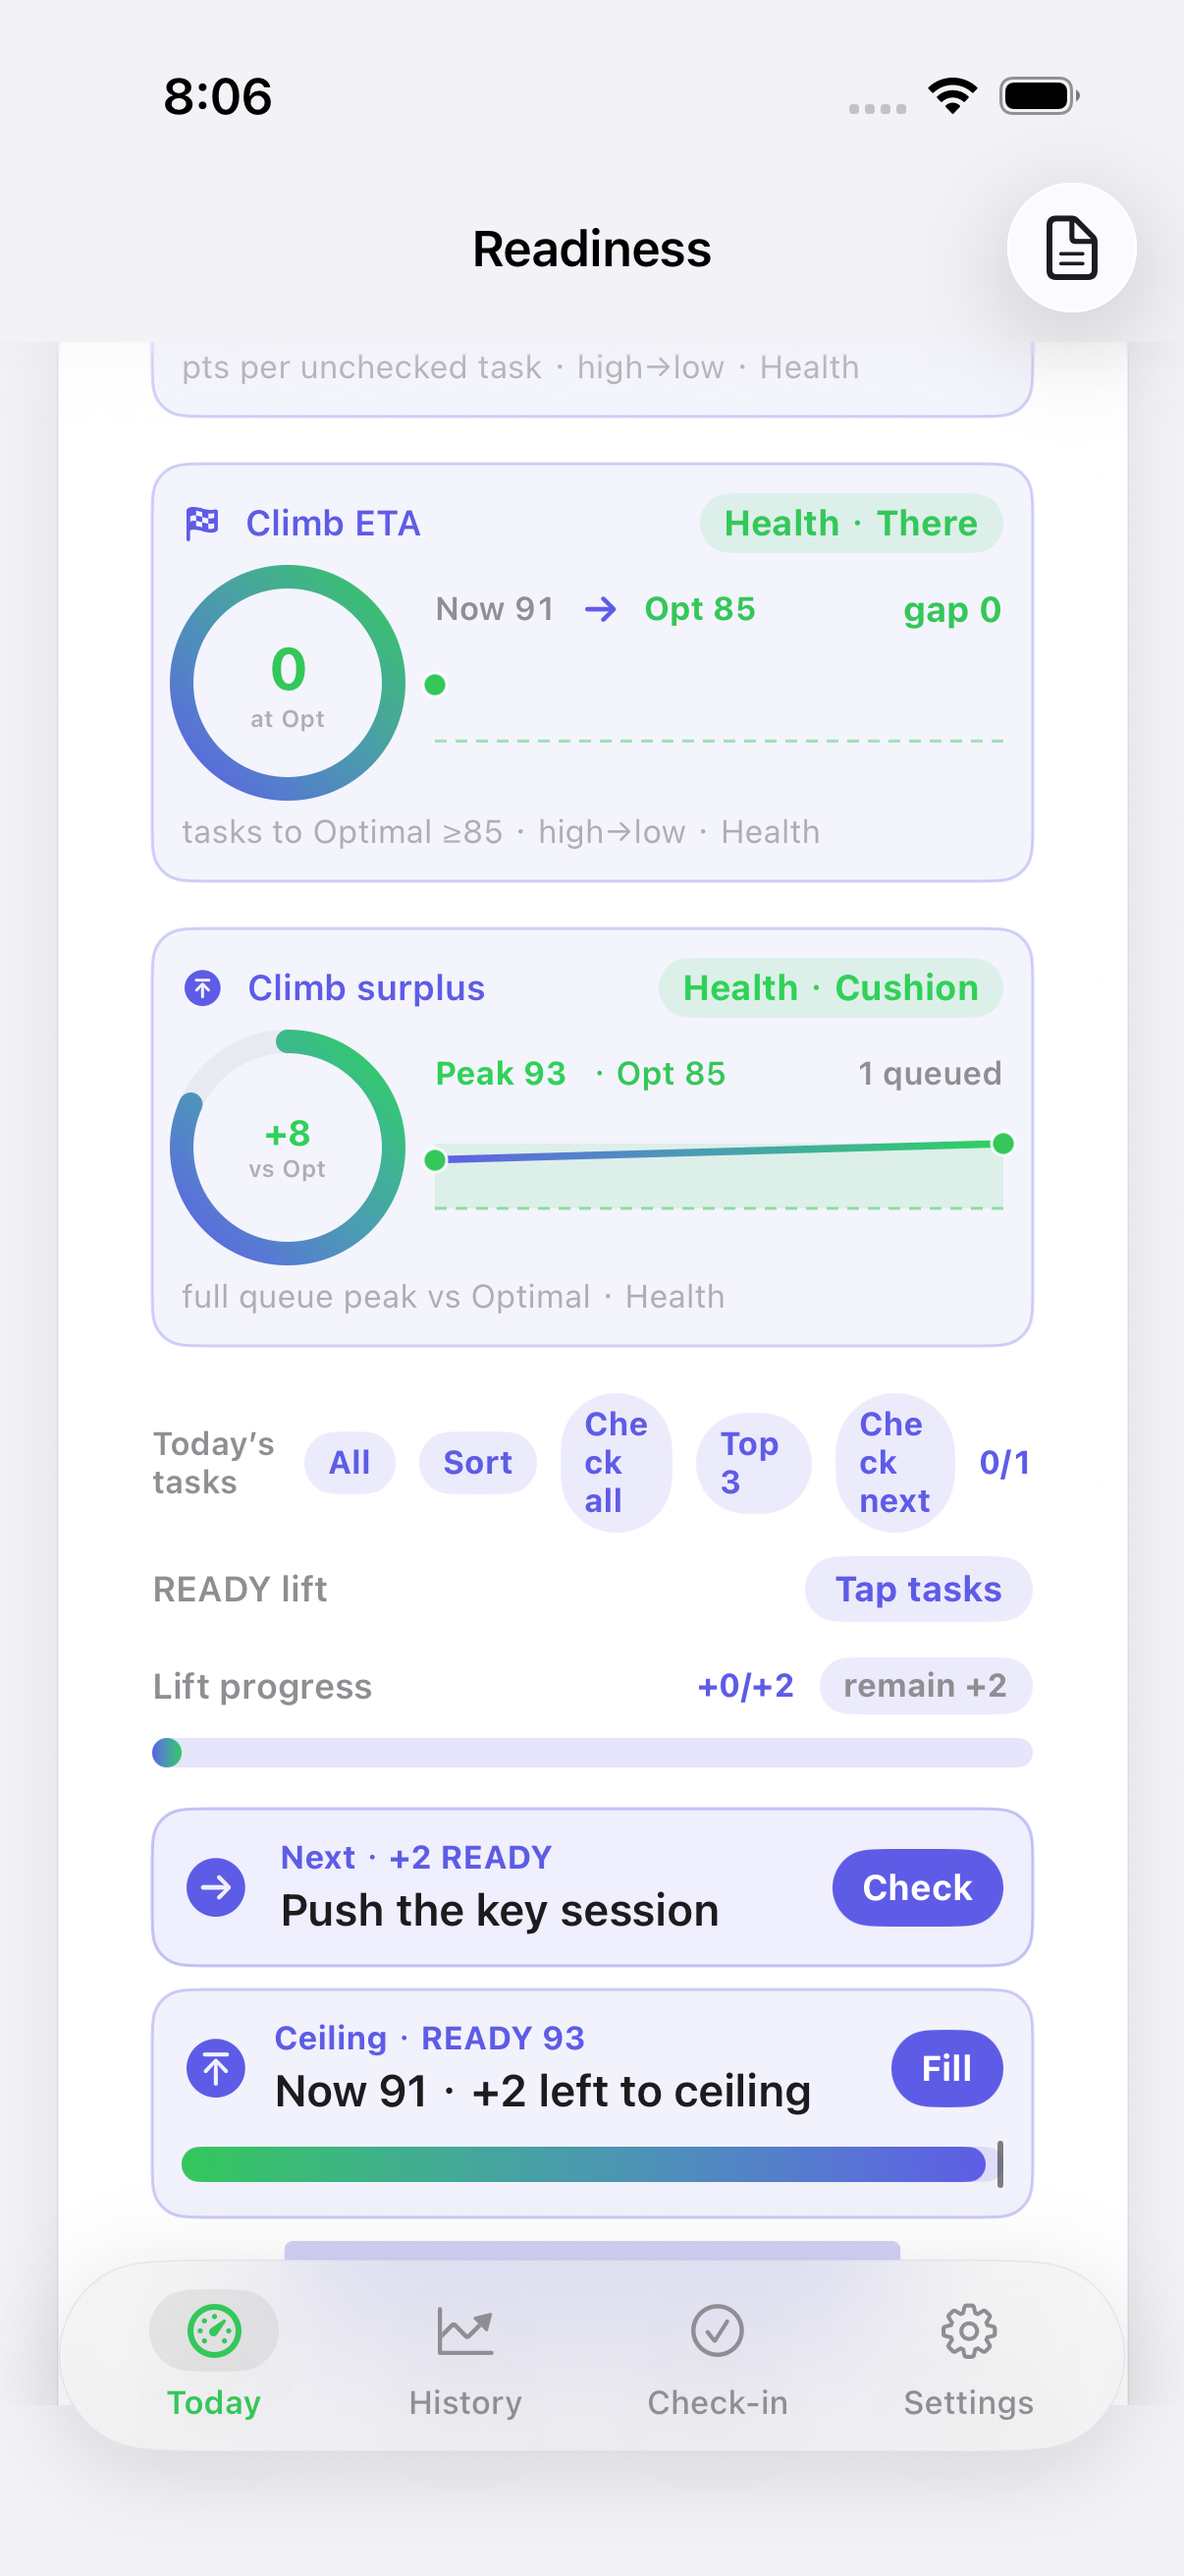
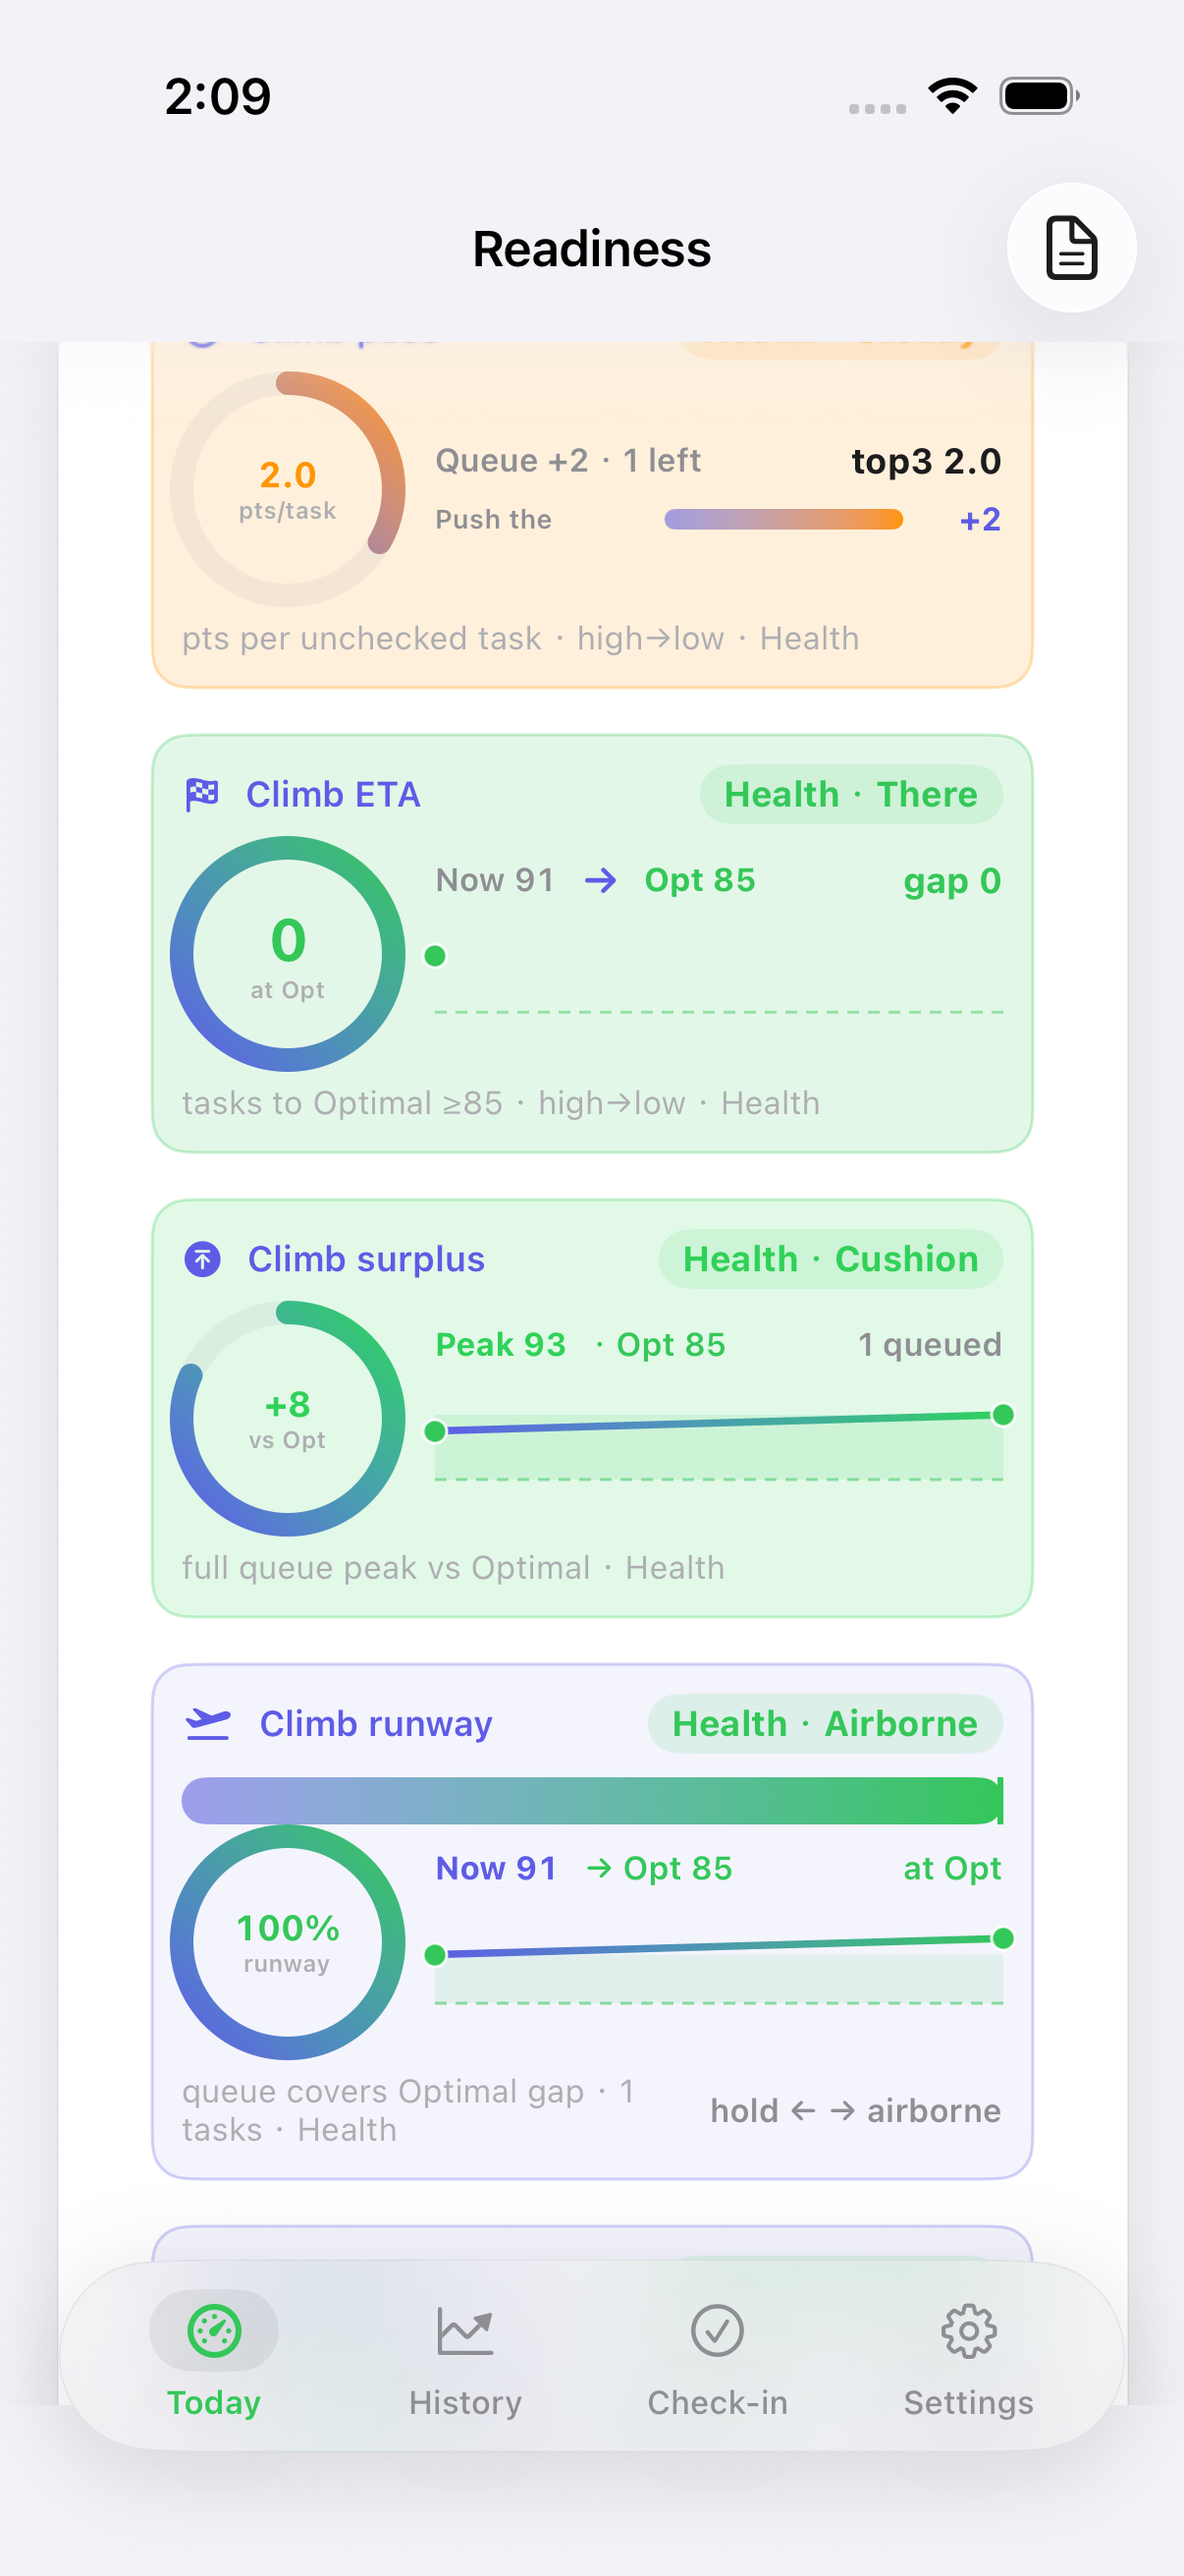
Honest #747: Simulator climb surplus (WHOOP wells) (#777)
Restyle the existing Simulator climb surplus dial (`sim.load.ready.climb.surplus`, Honest #621) with WHOOP wells.

- Idle (Deficit / queue peak cannot reach Optimal ≥85): ghost/hairline 8%/28%
- Active Edge (0 < surplus < 5): 14% fill + 28% hairline (caution)
- Cushion (surplus >= 5): 14% fill + 28% hairline (good)
- Flood (surplus >= 10) and Exact (surplus == 0, peak >= 85): 14% fill + 28% hairline (optimal/accent); no new SurfaceID; no formula change

Proof: `testReadinessLoadSimulatorSurface` 766.033s, 0 failures; `.audit/verify-simulator-climb-surplus.png`
model=deepseek-flash (mechanical pattern-copy of #746 wells)

Changed region(s): [[0.1227, 0.1236, 0.8897, 0.8959], [0.1534, 0.0309, 0.2148, 0.0618]]

diff --git a/ReadinessTracker/Views/WhoopFeatures/ReadinessLoadSimulatorCard.swift b/ReadinessTracker/Views/WhoopFeatures/ReadinessLoadSimulatorCard.swift
@@ -4095,7 +4095,7 @@ struct ReadinessLoadSimulatorCard: View {
         .animation(.easeInOut(duration: 0.25), value: projectedCoupled)
     }
 
-    /// Honest #621: READY climb surplus — pts above Optimal after ETA queue (Fitbit/GH graphics).
+    /// Honest #621 / #747: READY climb surplus — pts above Optimal after ETA queue (Fitbit/GH graphics; WHOOP wells).
     @ViewBuilder
     private var readyClimbSurplusDial: some View {
         let pending = tasks.filter { !completedTaskIDs.contains($0.id) }.sorted { $0.readyDelta > $1.readyDelta }
@@ -4131,6 +4131,8 @@ struct ReadinessLoadSimulatorCard: View {
         } else {
             verb = "Exact"; tone = accent
         }
+        let climbSurplusIsActive = (verb != "Deficit")
+        let wellTone: Color = climbSurplusIsActive ? tone : RTColor.secondaryText
         let disp = peak < target ? String(format: "%d", peak - target) : String(format: "+%d", surplus)
         let lo = max(0, min(start, peak, target) - 4)
         let hi = min(100, max(start, peak, target) + 4)
@@ -4236,10 +4238,10 @@ struct ReadinessLoadSimulatorCard: View {
                 .foregroundStyle(RTColor.tertiaryText)
         }
         .padding(10)
-        .background(accent.opacity(0.07), in: RoundedRectangle(cornerRadius: 12, style: .continuous))
+        .background(wellTone.opacity(climbSurplusIsActive ? 0.14 : 0.08), in: RoundedRectangle(cornerRadius: 12, style: .continuous))
         .overlay(
             RoundedRectangle(cornerRadius: 12, style: .continuous)
-                .stroke(accent.opacity(0.28), lineWidth: 1)
+                .stroke(wellTone.opacity(0.28), lineWidth: 1)
         )
         .accessibilityIdentifier(SurfaceID.readinessSimulatorClimbSurplus)
         .accessibilityLabel("Climb surplus \(verb) \(disp)")

diff --git a/ReadinessTracker/Design/Theme.swift b/ReadinessTracker/Design/Theme.swift
@@ -411,7 +411,7 @@ enum SurfaceID {
     static let readinessSimulatorReadyHandoff = "sim.load.ready.handoff"  // Honest #615 / #744
     static let readinessSimulatorClimbPace = "sim.load.ready.climb.pace"  // Honest #617 / #745
     static let readinessSimulatorClimbETA = "sim.load.ready.climb.eta"  // Honest #619 / #746
-    static let readinessSimulatorClimbSurplus = "sim.load.ready.climb.surplus"  // Honest #621
+    static let readinessSimulatorClimbSurplus = "sim.load.ready.climb.surplus"  // Honest #621 / #747
     static let readinessSimulatorClimbRunway = "sim.load.ready.climb.runway"  // Honest #623
     static let readinessSimulatorClimbGlide = "sim.load.ready.climb.glide"  // Honest #626
     static let readinessSimulatorClimbIntercept = "sim.load.ready.climb.intercept"  // Honest #639

diff --git a/ReadinessTrackerUITests/SurfacesUITests.swift b/ReadinessTrackerUITests/SurfacesUITests.swift
@@ -10895,7 +10895,7 @@ final class SurfacesUITests: XCTestCase {
         }
         saveShot("verify-simulator-climb-eta.png")
 
-        // Honest #621: READY climb surplus
+        // Honest #621 / #747: READY climb surplus (WHOOP wells)
         let climbSurplus = app.descendants(matching: .any)["sim.load.ready.climb.surplus"].firstMatch
         XCTAssertTrue(climbSurplus.waitForExistence(timeout: 5)
                       || app.descendants(matching: .any)["sim.load.ready.climb.eta"].firstMatch.exists

diff --git a/.audit/decision-log-2026-11-04.md b/.audit/decision-log-2026-11-04.md
@@ -318,3 +318,9 @@
 
 | 01:45 HKT | #746 Simulator climb ETA | prove | UITest suite green /tmp/RT-DD746 (775.666s, 0 failures; observer 789.439s); model=deepseek-flash |
 | 01:45 HKT | #746 Simulator climb ETA | land | proof PNG + receipt; SID sim.load.ready.climb.eta; PR squash next; model=deepseek-flash |
+
+| 01:56 HKT | Honest #747 Simulator climb surplus | model=deepseek-flash | restyle existing sim.load.ready.climb.surplus after climb ETA #746; WHOOP ghost/active wells; mechanical pattern-copy of #746 wells applied locally (no separate model iterate needed) | mid-ship |
+| 01:56 HKT | Honest #747 Simulator climb surplus | prove | started UITest /tmp/RT-DD747; model=deepseek-flash | mid-ship |
+
+| 02:15 HKT | #747 Simulator climb surplus | prove | UITest suite green /tmp/RT-DD747 (766.033s, 0 failures; observer 778.893s); model=deepseek-flash |
+| 02:17 HKT | #747 Simulator climb surplus | land | proof PNG + receipt; SID sim.load.ready.climb.surplus; PR squash next; model=deepseek-flash |

diff --git a/.audit/features/readiness-simulator-climb-surplus.md b/.audit/features/readiness-simulator-climb-surplus.md
@@ -1,5 +1,6 @@
-# Honest #621: Simulator climb surplus
+# Honest #621 / #747: Simulator climb surplus (WHOOP wells)
 
 Full-queue peak vs Optimal (Flood/Cushion/Edge/Exact/Deficit).
+Idle (Deficit / queue peak cannot reach Optimal ≥85) = ghost/hairline 8/28; active Edge (0 < surplus < 5) = 14 fill + 28 hairline (caution); Cushion (surplus >= 5) = 14 fill + 28 hairline (good); Flood (surplus >= 10) and Exact (surplus == 0, peak >= 85) = 14 fill + 28 hairline (optimal/accent).
 SurfaceID: `sim.load.ready.climb.surplus`
 Proof: `.audit/verify-simulator-climb-surplus.png`

diff --git a/.audit/sim-climb-surplus.md b/.audit/sim-climb-surplus.md
@@ -1,5 +1,6 @@
-# Honest #621: Simulator climb surplus
+# Honest #621 / #747: Simulator climb surplus (WHOOP wells)
 
 Full-queue peak vs Optimal (Flood/Cushion/Edge/Exact/Deficit).
+Idle (Deficit / queue peak cannot reach Optimal ≥85) = ghost/hairline 8/28; active Edge (0 < surplus < 5) = 14 fill + 28 hairline (caution); Cushion (surplus >= 5) = 14 fill + 28 hairline (good); Flood (surplus >= 10) and Exact (surplus == 0, peak >= 85) = 14 fill + 28 hairline (optimal/accent).
 SurfaceID: `sim.load.ready.climb.surplus`
 Proof: `.audit/verify-simulator-climb-surplus.png`

diff --git a/.cursor/skills/verify-readiness-tracker/features/readiness-simulator-climb-surplus.md b/.cursor/skills/verify-readiness-tracker/features/readiness-simulator-climb-surplus.md
@@ -1,5 +1,6 @@
-# Honest #621: Simulator climb surplus
+# Honest #621 / #747: Simulator climb surplus (WHOOP wells)
 
 Full-queue peak vs Optimal (Flood/Cushion/Edge/Exact/Deficit).
+Idle (Deficit / queue peak cannot reach Optimal ≥85) = ghost/hairline 8/28; active Edge (0 < surplus < 5) = 14 fill + 28 hairline (caution); Cushion (surplus >= 5) = 14 fill + 28 hairline (good); Flood (surplus >= 10) and Exact (surplus == 0, peak >= 85) = 14 fill + 28 hairline (optimal/accent).
 SurfaceID: `sim.load.ready.climb.surplus`
 Proof: `.audit/verify-simulator-climb-surplus.png`
